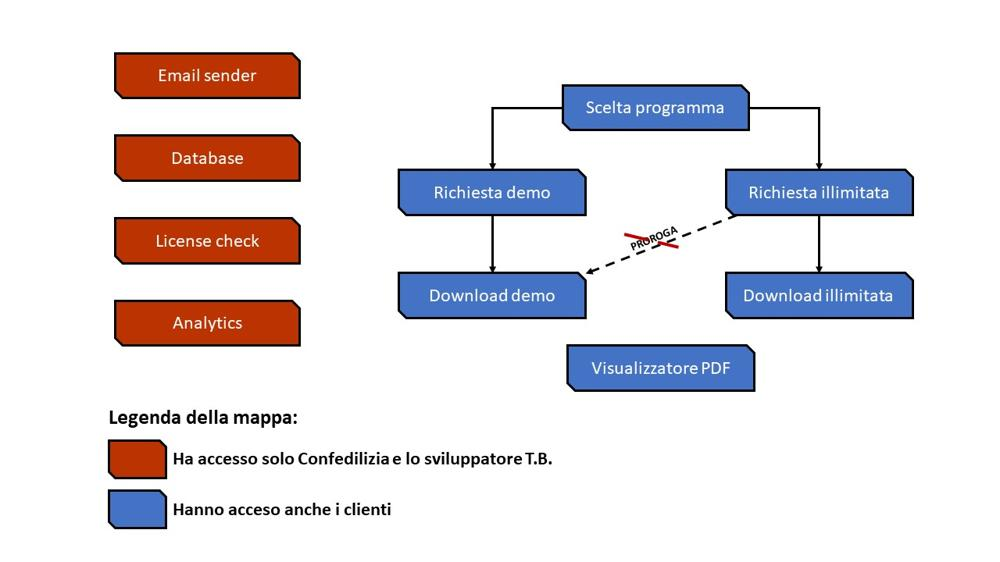
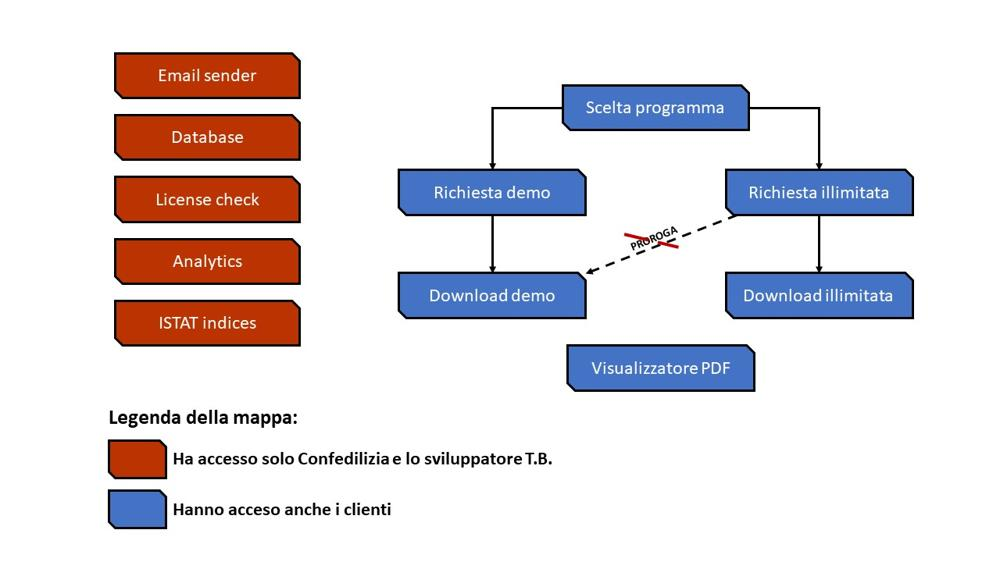
Indices page added

Changed region(s): [[0.093, 0.1815, 0.31, 0.5142], [0.155, 0.5445, 0.248, 0.605]]

diff --git a/updateIndices.php b/updateIndices.php
@@ -1,0 +1,92 @@
+<?php
+include_once "./_settings.php";
+updateInteractions();
+include_once "./_isAdmin.php";
+
+
+// Check for edit or delete actions based on query parameters
+if (isset($_GET['editData'])) {
+    $editId = $_GET['editData'];
+    $newData = $_GET['newData'];
+    Query("UPDATE Indici_prospetto SET indexValue = $newData WHERE id = $editId");
+    header("Location: ./updateIndices.php");
+}
+
+if (isset($_GET['deleteData'])) {
+    $deleteId = $_GET['deleteData'];
+    Query("DELETE FROM Indici_prospetto WHERE id = $deleteId");
+    header("Location: ./updateIndices.php");
+}
+
+if (isset($_GET['addData'])) {
+    $validFrom = $_GET['validFrom'];
+    $indexValue = $_GET['indexValue'];
+    Query("INSERT INTO Indici_prospetto (validFrom, indexValue) VALUES ('$validFrom', $indexValue)");
+    header("Location: ./updateIndices.php");
+}
+
+$result = Query("SELECT * FROM Indici_prospetto");
+if ($result->num_rows > 0) {
+    while ($row = $result->fetch_assoc()) {
+        $row['validFrom'] = date('d/m/Y', strtotime($row['validFrom']));
+        $row['indexValue'] = number_format($row['indexValue'], 2, ',', '.');
+        $indiciProspettoDatas[] = $row;
+    }
+};
+
+$conn->close();
+?>
+
+<!DOCTYPE html>
+<html lang="it">
+<?php echo render('./template/site/head.php', array('title' => 'Database', 'robots' => 'noindex'), 1); ?>
+
+<body>
+    <a href="/">
+        <h1>Prospetto di calcolo</h1>
+    </a>
+    <h3>Indici_prospetto</h3>
+    <table>
+        <thead>
+            <tr>
+                <th>Valido da</th>
+                <th>Indice ISTAT (%)</th>
+                <th>Azioni</th>
+            </tr>
+        </thead>
+        <tbody>
+            <?php foreach ($indiciProspettoDatas as $indiciProspettoData) : ?>
+                <tr>
+                    <td><?php echo $indiciProspettoData['validFrom']; ?></td>
+                    <td><?php echo $indiciProspettoData['indexValue']; ?></td>
+                    <td>
+                        <button onclick="editData(<?php echo $indiciProspettoData['id']; ?>, <?php echo $indiciProspettoData['indexValue']; ?>)">Modifica dato</button>
+                        <button onclick="deleteData(<?php echo $indiciProspettoData['id']; ?>)">Elimina dato</button>
+                    </td>
+                </tr>
+            <?php endforeach; ?>
+            <tr>
+                <td><input type="date" id="validFrom" name="validFrom" value="<?php echo date('Y-m-01'); ?>"></td>
+                <td><input type="number" id="indexValue" name="indexValue" step=".01" value="0.00"></td>
+                <td><button onclick="window.location.href = '?addData&validFrom=' + document.getElementById('validFrom').value + '&indexValue=' + document.getElementById('indexValue').value">Aggiungi dato</button></td>
+            </tr>
+        </tbody>
+    </table>
+</body>
+<script>
+    function editData(ID, previousData) {
+        var newData = prompt('Inserisci il nuovo valore:', previousData);
+        if (newData !== null) {
+            window.location.href = "?editData=" + ID + "&newData=" + newData;
+        }
+    }
+
+    function deleteData(ID) {
+        var confirmDelete = confirm('Are you sure you want to delete this data?');
+        if (confirmDelete) {
+            window.location.href = "?deleteData=" + ID;
+        }
+    }
+</script>
+
+</html>

diff --git a/API/index.php b/API/index.php
@@ -11,10 +11,9 @@ if ($result) {
     while ($row = $result->fetch_array(MYSQLI_ASSOC)) {
         $return_obj->Data[] = array(
             $row['validFrom'],
-            $row['indexValue']
+            $row['indexValue'] / 100
         );
     }
-
 
     // Convert the data array to CSV format
     $csv_data = '';
@@ -27,23 +26,49 @@ if ($result) {
     returndata(1, "Error loading data", null);
 }
 
+logError($_GET);
 
 
-$date = date('m-Y');
-$userEmail = isset($_GET['userEmail']) ? $_GET['userEmail'] : "";
-$pcSerialNumber = $_GET['pcSerialNumber'];
+if (isset($_GET['pcSerialNumber'])) {
+    $date = date('m-Y');
+    $userEmail = $_GET['userEmail'] ?? "";
+    $pcSerialNumber = trim($_GET['pcSerialNumber']);
 
 
-if ($userEmail != "") {
-    Query("UPDATE Utenti_prospetto
-            SET lastAccess=JSON_SET(lastAccess, '$.$date', JSON_EXTRACT(lastAccess, '$.$date') + 1),
+    if ($userEmail != "") {
+
+        $selectQuery = "SELECT JSON_EXTRACT(lastAccess, '$.\"$date\"') as date_value FROM Utenti_prospetto WHERE email = '$userEmail'";
+        $result = Query($selectQuery)->fetch_array(MYSQLI_ASSOC);
+
+        if ($result['date_value'] === null) {
+            $updateQuery = "UPDATE Utenti_prospetto
+            SET lastAccess = JSON_SET(lastAccess, '$.\"$date\"', 1),
             pcSerialNumber = JSON_ARRAY_APPEND(pcSerialNumber, '$', '$pcSerialNumber')
-        WHERE email = '$userEmail'");
-} else {
-    Query("UPDATE Utenti_prospetto
-    SET lastAccess=JSON_SET(lastAccess, '$.$date', JSON_EXTRACT(lastAccess, '$.$date') + 1)
-    WHERE JSON_CONTAINS(pcSerialNumber, '\"$pcSerialNumber\"')");
-}
+        WHERE email = '$userEmail'";
+        } else {
+            $updatedValue = intval($result['date_value']) + 1;
+            $updateQuery = "UPDATE Utenti_prospetto
+            SET lastAccess = JSON_SET(lastAccess, '$.\"$date\"', $updatedValue),
+            pcSerialNumber = JSON_ARRAY_APPEND(pcSerialNumber, '$', '$pcSerialNumber')
+        WHERE email = '$userEmail'";
+        }
+    } else {
+        $selectQuery = "SELECT JSON_EXTRACT(lastAccess, '$.\"$date\"') as date_value FROM Utenti_prospetto WHERE JSON_CONTAINS(pcSerialNumber, '\"$pcSerialNumber\"')";
+        $result = Query($selectQuery)->fetch_array(MYSQLI_ASSOC);
 
+        if ($result['date_value'] === null) {
+            $updateQuery = "UPDATE Utenti_prospetto
+            SET lastAccess = JSON_SET(lastAccess, '$.\"$date\"', 1)
+        WHERE JSON_CONTAINS(pcSerialNumber, '\"$pcSerialNumber\"')";
+        } else {
+            $updatedValue = intval($result['date_value']) + 1;
+            $updateQuery = "UPDATE Utenti_prospetto
+            SET lastAccess = JSON_SET(lastAccess, '$.\"$date\"', $updatedValue)
+        WHERE JSON_CONTAINS(pcSerialNumber, '\"$pcSerialNumber\"')";
+        }
+    }
+
+    Query($updateQuery);
+}
 
 $conn->close();

diff --git a/Indice_controllo.php b/Indice_controllo.php
@@ -31,10 +31,12 @@ returndata(0, "Connection with MySQL database closed");
 
             <img src="/assets/img/siteLogicalScheme.jpg" usemap="#image-map" loading="lazy">
             <map name="image-map">
-                <area href="/emailSender.php" coords="114,53,300,97" shape="rect">
-                <area href="/database.php" coords="114,135,300,181" shape="rect">
-                <area href="/licenseCheck.php" coords="114,217,300,263" shape="rect">
-                <area href="/analytics.php" coords="114,299,300,345" shape="rect">
+                <area href="/emailSender.php" coords="114,48,300,92" shape="rect">
+                <area href="/database.php" coords="114,112,300,156" shape="rect">
+                <area href="/licenseCheck.php" coords="114,176,300,220" shape="rect">
+                <area href="/analytics.php" coords="114,240,300,284" shape="rect">
+                <area href="/updateIndices.php" coords="114,302,300,345" shape="rect">
+
                 <area href="/Scelta_programma.php" coords="562,85,750,129" shape="rect">
                 <area href="/Richiesta_demo.php" coords="400,167,585,214" shape="rect">
                 <area href="/Richiesta_illimitata.php" coords="725,168,910,214" shape="rect">

diff --git a/_initTable.php b/_initTable.php
@@ -14,7 +14,7 @@ $sql[] = "CREATE TABLE IF NOT EXISTS Utenti_prospetto (
     address          VARCHAR(255) DEFAULT NULL,
     phone            VARCHAR(127) DEFAULT NULL,
     pcSerialNumber   JSON         DEFAULT ('[]'),
-    lastAccess       JSON         DEFAULT ('{}'),
+    lastAccess       JSON         DEFAULT ('[]'),
 
     PRIMARY KEY (id),
     UNIQUE (email))
@@ -70,7 +70,8 @@ $sql[] = "CREATE TABLE IF NOT EXISTS Indici_prospetto (
     validFrom  DATE     NOT NULL,
     indexValue FLOAT(5) NOT NULL,
 
-    PRIMARY KEY (id))
+    PRIMARY KEY (id),
+    UNIQUE (validFrom))
     ENGINE=InnoDB";
 
 
@@ -82,6 +83,7 @@ $sql[] = "INSERT INTO Visite_sito (pageName) VALUES
 ('Download_demo'),
 ('Download_illimitata'),
 ('Indice_controllo'),
+('Manutenzione'),
 ('licenseCheck'),
 ('database'),
 ('analytics'),
@@ -91,8 +93,8 @@ $sql[] = "INSERT INTO Visite_sito (pageName) VALUES
 
 
 $sql[] = "INSERT INTO Indici_prospetto (validFrom, indexValue) VALUES
-('2020-10-01', 5.00),
-('2023-10-01', 10.00)";
+('2020-10-01', 0.00),
+('2023-10-01', 11.68)";
 
 
 

diff --git a/Manutenzione.php b/Manutenzione.php
@@ -1,0 +1,36 @@
+<?php
+
+include_once "./_settings.php";
+updateInteractions();
+
+
+$conn->close();
+returndata(0, "Connection with MySQL database closed");
+?>
+
+
+<!DOCTYPE html>
+<html lang="it">
+
+<?php echo render('./template/site/head.php', array('title' => 'Sito in manutenzione'), 1); ?>
+
+<body>
+    <div>
+
+        <?php echo render('./template/site/header.php', array('title' => 'Prospetto di calcolo', 'subtitle' => 'sito in manutenzione')); ?>
+
+        <main>
+
+            <p>
+                Il sito si trova attualmente in fase di manutenzione.<br>
+                Ti preghiamo di riprovare più tardi.
+            </p>
+
+        </main>
+
+        <?php echo render('./template/site/footer.php', array()); ?>
+
+    </div>
+</body>
+
+</html>

diff --git a/_env.php b/_env.php
@@ -2,7 +2,8 @@
 
 define('HOST_SITE', 'http://' . $_SERVER['HTTP_HOST']);
 define('API_KEY', 12345);
-define('IS_DEV', 1);
+define('IS_DEV', 0);
+define('IS_MAINTENANCE', 0);
 
 define('EMAIL', array(
     'MASTER'       => 'attestazioniaffitti@gmail.com',
@@ -18,6 +19,6 @@ define('BANK_DATA', array(
 define('PRICE', 100);
 
 define('FILE_DOWNLOAD', array(
-    'DEMO'       => "./protected/Prospetto_di_calcolo_demo.xlsm",
-    'ILLIMITATO' => "./protected/Prospetto_di_calcolo_illimitato.V3.xlsm",
+    'DEMO'       => "./protected/Prospetto_di_calcolo_demo.V3.xlsm",
+    'ILLIMITATO' =>  "./protected/Prospetto_di_calcolo_illimitato.V3.xlsm",
 ));

diff --git a/template/email/emailSender.php b/template/email/emailSender.php
@@ -10,8 +10,7 @@
         L'aggiornamento contiene:
     </p>
     <ul>
-        <li>Migliorata compatibilità con sistemi operativi 'macOS'</li>
-        <li>Convalida dati per il valore del piano dell'unità abitativa</li>
+        <li>Rivalutazione fasce prospetto in base dell'indice ISTAT (come specificato nell'Accordo Territoriale del Comune di Como)</li>
     </ul>
     <p>
         Consigliamo fortemente di procede con l'aggiornamento, scaricando la nuova versione dal link sopra ed eliminando dal proprio dispositivo quella attualmente installata.

diff --git a/_functions.php b/_functions.php
@@ -5,8 +5,8 @@ function returndata(int $code = 0, string $log = null): void
     global $return_obj;
     $return_obj->Log[] = $log;
     $return_obj->Status = $code;
-    // echo json_encode($return_obj, JSON_PRETTY_PRINT);
     if (IS_DEV) {
+        echo json_encode($return_obj, JSON_PRETTY_PRINT);
         echo "<script>console.log(" . json_encode($return_obj) . ")</script>";
     }
 }

diff --git a/index.php b/index.php
@@ -13,5 +13,11 @@ if (
 	exit();
 }
 
+if (IS_MAINTENANCE) {
+	header("Location: ./Manutenzione.php");
+	exit();
+}
+
+
 header("Location: ./Scelta_programma.php");
 exit();
